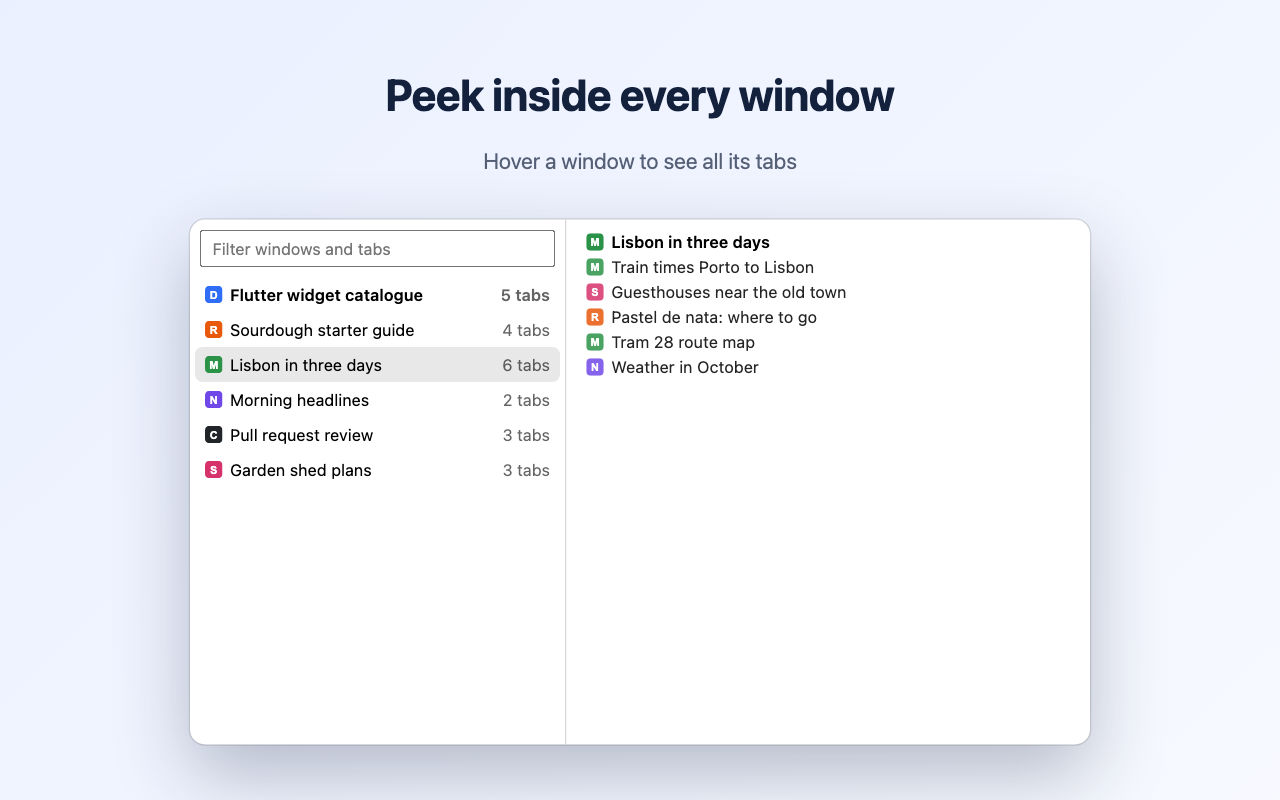
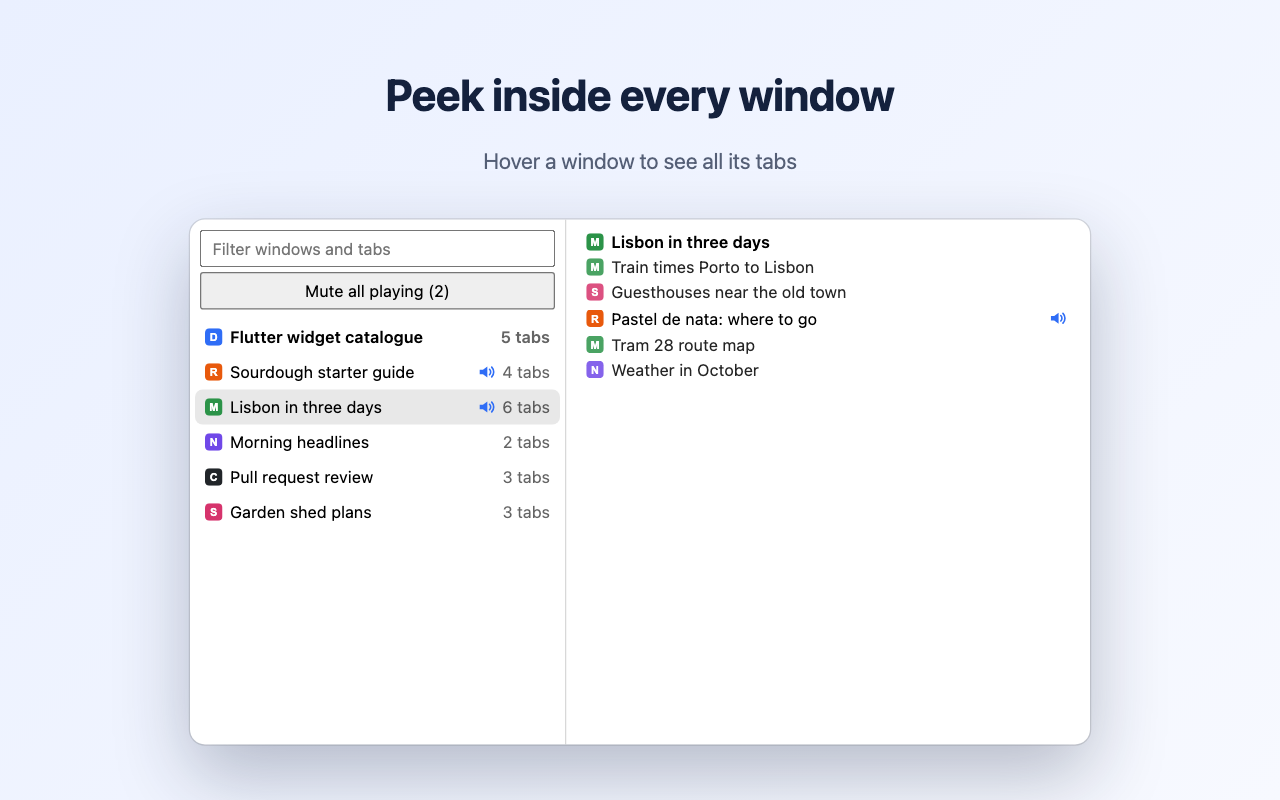
Update screenshots, listing text and privacy policy for 1.1.0

Changed region(s): [[0.1562, 0.3438, 0.3438, 0.6562], [0.375, 0.3438, 0.6562, 0.6562], [0.8125, 0.375, 0.8438, 0.4062]]

diff --git a/store/LISTING.md b/store/LISTING.md
@@ -13,6 +13,7 @@ Lost a tab somewhere in a sea of windows? Peek-a-Tab shows every browser window 
 • Hover a window to list every tab inside it
 • Click a tab to bring its window forward and show that tab
 • Windows are listed most recently used first, current window on top
+• See which tabs are playing sound, and mute them one by one or all at once
 • Filter by typing: search works across every window's tab titles and addresses
 • Open from the toolbar button or the Option+W shortcut (changeable in your browser's shortcut settings)
 • Follows your light or dark theme
@@ -25,7 +26,7 @@ Free and open source (MIT): https://github.com/BluDotz/peek-a-tab
 Productivity
 
 ## Permission justifications (Chrome Web Store asks for these)
-- tabs: Needed to read the title, address and icon of each open tab so they can be listed in the popup, and to switch to the tab the user clicks.
+- tabs: Needed to read the title, address, icon and audio/mute state of each open tab so they can be listed in the popup, to mute or unmute a tab the user chooses, and to switch to the tab the user clicks.
 - storage: Used to hold a short list of window ids in the order they were last focused (session storage, cleared when the browser closes) so the most recently used window is listed first.
 - Background service worker: records window focus order for the above; makes no network requests.
 
@@ -36,6 +37,6 @@ https://github.com/BluDotz/peek-a-tab/blob/main/PRIVACY.md
 Show a list of the user's open browser windows and their tabs, and let the user jump to a chosen window or tab.
 
 ## Assets
-- Screenshots (1280x800): store/screenshots/
+- Screenshots (1280x800): store/screenshots/ (4 images)
 - Small promo tile (440x280): store/promo-tile-440x280.png
 - Icon (128x128): icons/icon128.png

diff --git a/README.md b/README.md
@@ -4,6 +4,7 @@ A small browser extension for Chromium-based browsers (Chrome, Opera, Edge, Brav
 It shows every browser window with its tab count. Hover a window to see all of its tab
 titles in a side panel; click a tab to bring its window to the front with that tab showing.
 
+- See which tabs are playing audio, and mute them one by one or all at once
 - Filter windows and tabs by typing in the search box
 - Open with the toolbar button or **Option+W** (change it at `chrome://extensions/shortcuts`)
 - Windows are listed most recently used first (the current window is always on top)
@@ -22,7 +23,7 @@ titles in a side panel; click a tab to bring its window to the front with that t
 
 ## Privacy
 
-Peek-a-Tab reads your open window and tab titles/URLs only to display them in its popup.
+Peek-a-Tab reads your open window and tab titles, URLs and sound state only to display them in its popup, and mutes a tab only when you ask it to.
 No data is stored, collected or transmitted.
 
 ## Licence

diff --git a/PRIVACY.md b/PRIVACY.md
@@ -1,12 +1,13 @@
 # Peek-a-Tab Privacy Policy
 
-_Last updated: 1 October 2026_
+_Last updated: 10 October 2026_
 
 Peek-a-Tab does not collect, store, transmit, sell or share any personal data.
 
 **What the extension reads.** To show you your open windows, Peek-a-Tab reads the titles, addresses
-(URLs) and site icons of your open tabs, using the browser's `tabs` permission. This happens
+(URLs), site icons and sound/mute state of your open tabs, using the browser's `tabs` permission. This happens
 locally, on your device, and only to display the list in the extension's popup.
+It mutes or unmutes a tab only when you click a mute button.
 
 **What it remembers.** The `storage` permission is used to keep a short list of window numbers, in the
 order you last used them, so the most recently used window can be shown first. This list lives in
